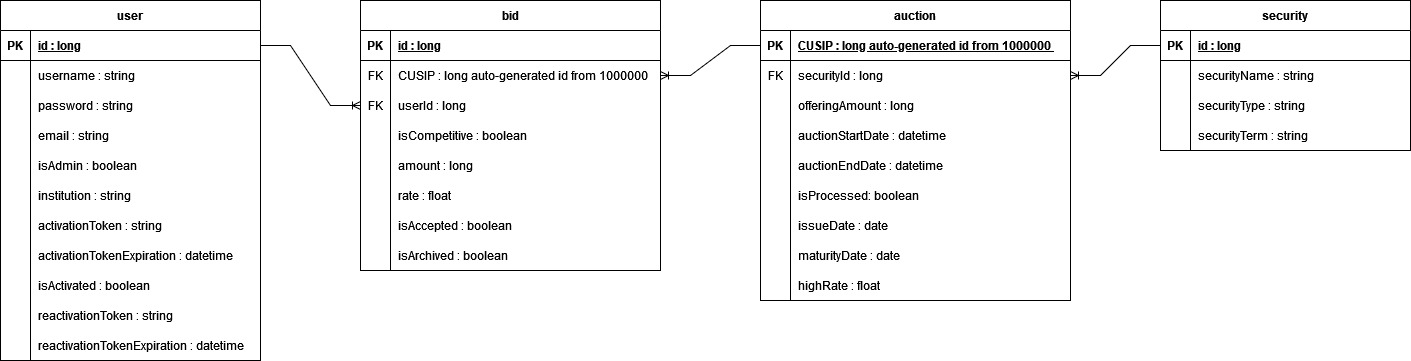
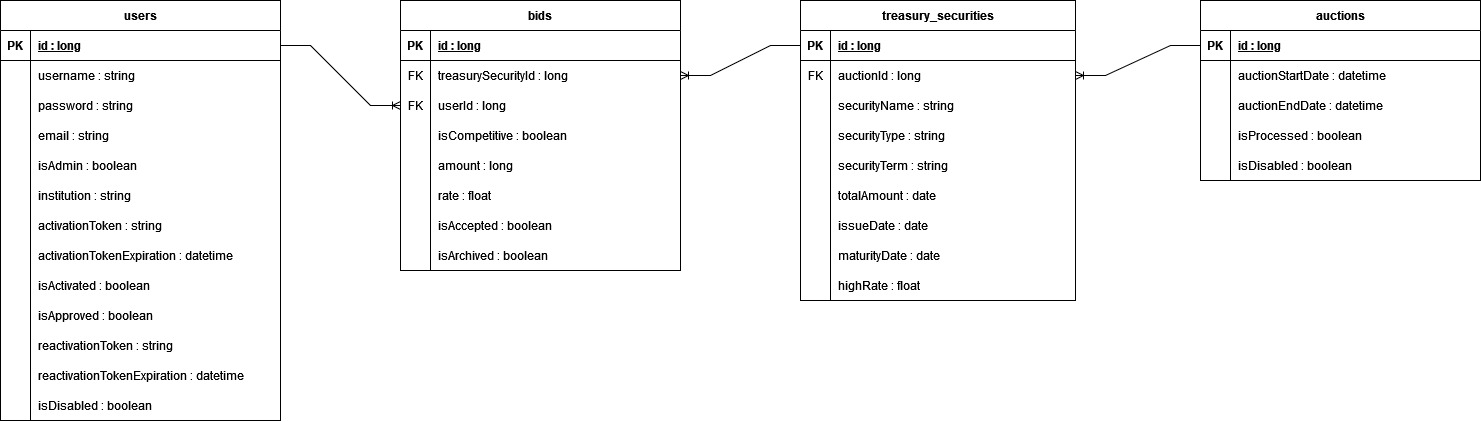
Updated logical model, and view for sigin page

diff --git a/src/main/resources/templates/login.html b/src/main/resources/templates/login.html
@@ -1,29 +1,81 @@
 <!DOCTYPE html>
-<html xmlns:th="http://www.thymeleaf.org" xmlns:tiles="http://www.thymeleaf.org">
+<html lang="en" xmlns:th="https://www.thymeleaf.org">
 <head>
-    <title tiles:fragment="title">Login</title>
+    <meta charset="UTF-8">
+    <meta http-equiv="X-UA Compatible" content="IE=edge"/>
+    <meta name="viewport" content="width=device-width", initial-scale="1.0"/>
+    <link rel="stylesheet" href="https://cdn.jsdelivr.net/npm/bootstrap@4.4.1/dist/css/bootstrap.min.css" integrity="sha384-Vkoo8x4CGsO3+Hhxv8T/Q5PaXtkKtu6ug5TOeNV6gBiFeWPGFN9MuhOf23Q9Ifjh" crossorigin="anonymous">
+    <base th:href="@{/}">
+    <title>LogIn</title>
+    <link rel="stylesheet" href="../css/login.css"/>
 </head>
 <body>
-<div tiles:fragment="content">
-    <form name="f" th:action="@{/login}" method="post">
-        <fieldset>
-            <legend>Please Login</legend>
-            <div th:if="${param.error}" class="alert alert-error">
-                Invalid username and password.
+<header>
+    <div class="pre-header">
+        <div class="container">
+            <div class="row">
+                <div class="col-md-6">
+                    <p>Treasury Auction System</p>
+                </div>
+                <div class="col-md-6">
+                    <ul class="main-menu">
+                        <li><a href="#">Login</a></li>
+                        <li><a href="#">Register</a></li>
+                        <li><p><a href="mailto:mightyroosterteam@gmail.com">Contact us</a></p></li>
+                    </ul>
+                </div>
             </div>
-            <div th:if="${param.logout}" class="alert alert-success">
-                You have been logged out.
+        </div>
+    </div>
+
+</header>
+
+<div id="login">
+
+<div class="container">
+    <div id="login-row" class="row justify-content-center align-items-center">
+        <div id="login-column" class="col-md-6">
+            <div id="login-box" class="col-md-12">
+                <form id="login-form" class="form" th:action="@{/login}" method="post">
+                    <h3 class="txt">Login</h3>
+                    <div th:if="${param.error}" class="alert alert-error">
+                        Invalid username or password.
+                    </div>
+                    <div th:if="${param.logout}" class="alert alert-success">
+                        You have been logged out.
+                    </div>
+                    <div class="form-group">
+                        <label for="username" class="text-info">Username:</label><br>
+                        <input type="text" name="username" id="username" class="form-control">
+                    </div>
+                    <div class="form-group">
+                        <label for="password" class="text-info">Password:</label><br>
+                        <input type="password" name="password" id="password" class="form-control">
+                    </div>
+                    <div class="form-group">
+                        <label for="remember-me" class="text-info"><span>Remember me</span><span><input id="remember-me" name="remember-me" type="checkbox"></span></label><br>
+                        <input type="submit" name="submit" class="btn btn-info btn-md" value="Submit">
+                    </div>
+                    <div id="register-link" class="text-right">
+                        <a href="#" class="text-info">Register here</a>
+                    </div>
+                    <div id="reset-link" class="text-right">
+                        <a href="#" class="text-info">Reset Password</a>
+                    </div>
+                </form>
             </div>
-            <label for="username">Username</label>
-            <input type="text" id="username" name="username"/>
-            <label for="password">Password</label>
-            <input type="password" id="password" name="password"/>
-            <div class="form-actions">
-                <button type="submit" class="btn">Log in</button>
-            </div>
-        </fieldset>
-    </form>
+        </div>
+    </div>
 </div>
+</div>
+
+
+
+</div>
+
+<script src="https://code.jquery.com/jquery-3.4.1.slim.min.js" integrity="sha384-J6qa4849blE2+poT4WnyKhv5vZF5SrPo0iEjwBvKU7imGFAV0wwj1yYfoRSJoZ+n" crossorigin="anonymous"></script>
+<script src="https://cdn.jsdelivr.net/npm/popper.js@1.16.0/dist/umd/popper.min.js" integrity="sha384-Q6E9RHvbIyZFJoft+2mJbHaEWldlvI9IOYy5n3zV9zzTtmI3UksdQRVvoxMfooAo" crossorigin="anonymous"></script>
+<script src="https://cdn.jsdelivr.net/npm/bootstrap@4.4.1/dist/js/bootstrap.min.js" integrity="sha384-wfSDF2E50Y2D1uUdj0O3uMBJnjuUD4Ih7YwaYd1iqfktj0Uod8GCExl3Og8ifwB6" crossorigin="anonymous"></script>
+
 </body>
 </html>
-

diff --git a/src/main/resources/static/css/login.css b/src/main/resources/static/css/login.css
@@ -1,0 +1,56 @@
+
+*{
+    margin:0;
+    padding:0;
+}
+.pre-header{
+    background-color: rgba(9, 16, 45, 0.62);
+    height: 60px;
+    color: #ffffff;
+    padding-top: 15px;
+    text-transform: uppercase;
+}
+.pre-header .main-menu{
+    list-style:none;
+}
+
+.pre-header .main-menu li{
+    display: inline-block;
+    margin-left: 50px;
+}
+
+.pre-header .main-menu li a{
+    color: #cbd9fa;
+    text-transform: uppercase;
+}
+body {
+    margin: 0;
+    padding: 0;
+    background-color: #255f69;
+    height: 100vh;
+    background-image:url("https://i2.wp.com/files.123freevectors.com/wp-content/original/113370-turquoise-blurred-background-vector.jpg?w=800&q=95");
+    background-size: cover;
+}
+#login .container #login-row #login-column #login-box {
+    margin-top: 120px;
+    max-width: 600px;
+    height: 350px;
+    border: 1px solid #9C9C9C;
+    background-color: #EAEAEA;
+    background-color: rgba(0,0,0,0.5);
+    border: 1px solid rgba(255,255,255,0.3);
+    padding: 20px;
+}
+#login .container #login-row #login-column #login-box #login-form {
+    padding: 20px;
+}
+#login .container #login-row #login-column #login-box #login-form #register-link {
+    margin-top: -85px;
+}
+#login .container #login-row #login-column #login-box .text-center .text-info{
+    color: white;
+}
+#login .container #login-row #login-column #login-box #login-form h3{
+    color: white;
+
+}

diff --git a/src/main/java/com/greenfox/treasuryauctionsystem/security/filters/CustomAuthorizationFilter.java b/src/main/java/com/greenfox/treasuryauctionsystem/security/filters/CustomAuthorizationFilter.java
@@ -33,6 +33,7 @@ public class CustomAuthorizationFilter extends OncePerRequestFilter {
       if(authorizationCookie.isPresent()){
         try {
           String token = authorizationCookie.get().getValue();
+          //TODO handle security key securely
           Algorithm algorithm = Algorithm.HMAC256("secret".getBytes());
           JWTVerifier verifier = JWT.require(algorithm).build();
           DecodedJWT decodedJWT = verifier.verify(token);
@@ -50,8 +51,7 @@ public class CustomAuthorizationFilter extends OncePerRequestFilter {
           filterChain.doFilter(request, response);
 
         } catch (Exception exception){
-          //TODO add error page to filter authorization exception
-          response.sendError(403);
+          filterChain.doFilter(request, response);
         }
       } else {
         filterChain.doFilter(request, response);

diff --git a/src/main/java/com/greenfox/treasuryauctionsystem/controllers/HelloController.java b/src/main/java/com/greenfox/treasuryauctionsystem/controllers/HelloController.java
@@ -6,7 +6,7 @@ import org.springframework.web.bind.annotation.RequestMapping;
 import org.springframework.web.bind.annotation.ResponseBody;
 
 @Controller
-@RequestMapping("/")
+@RequestMapping("/hello")
 public class HelloController {
 
   @GetMapping()
